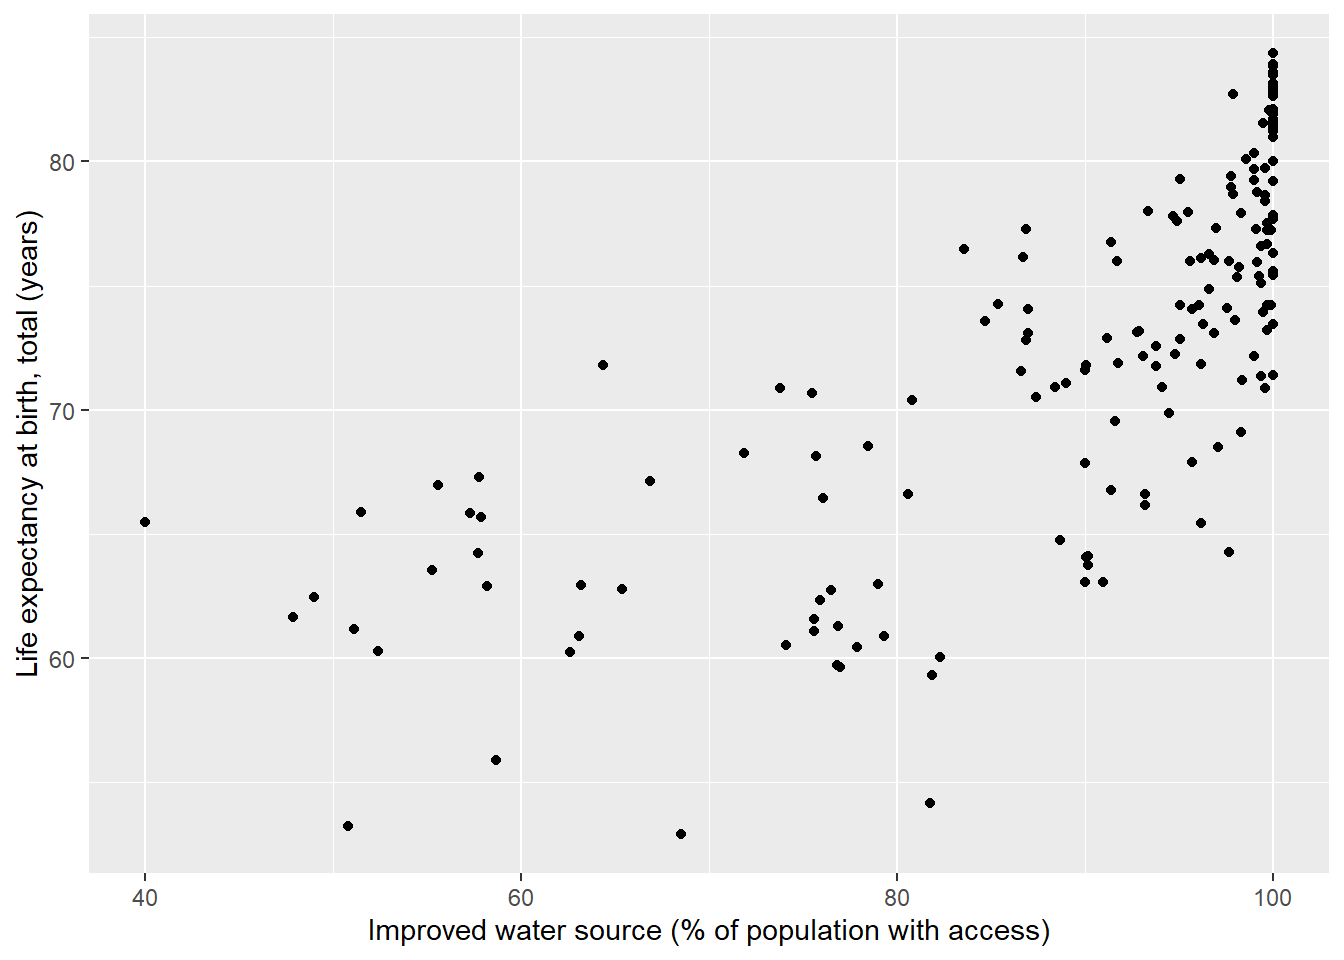
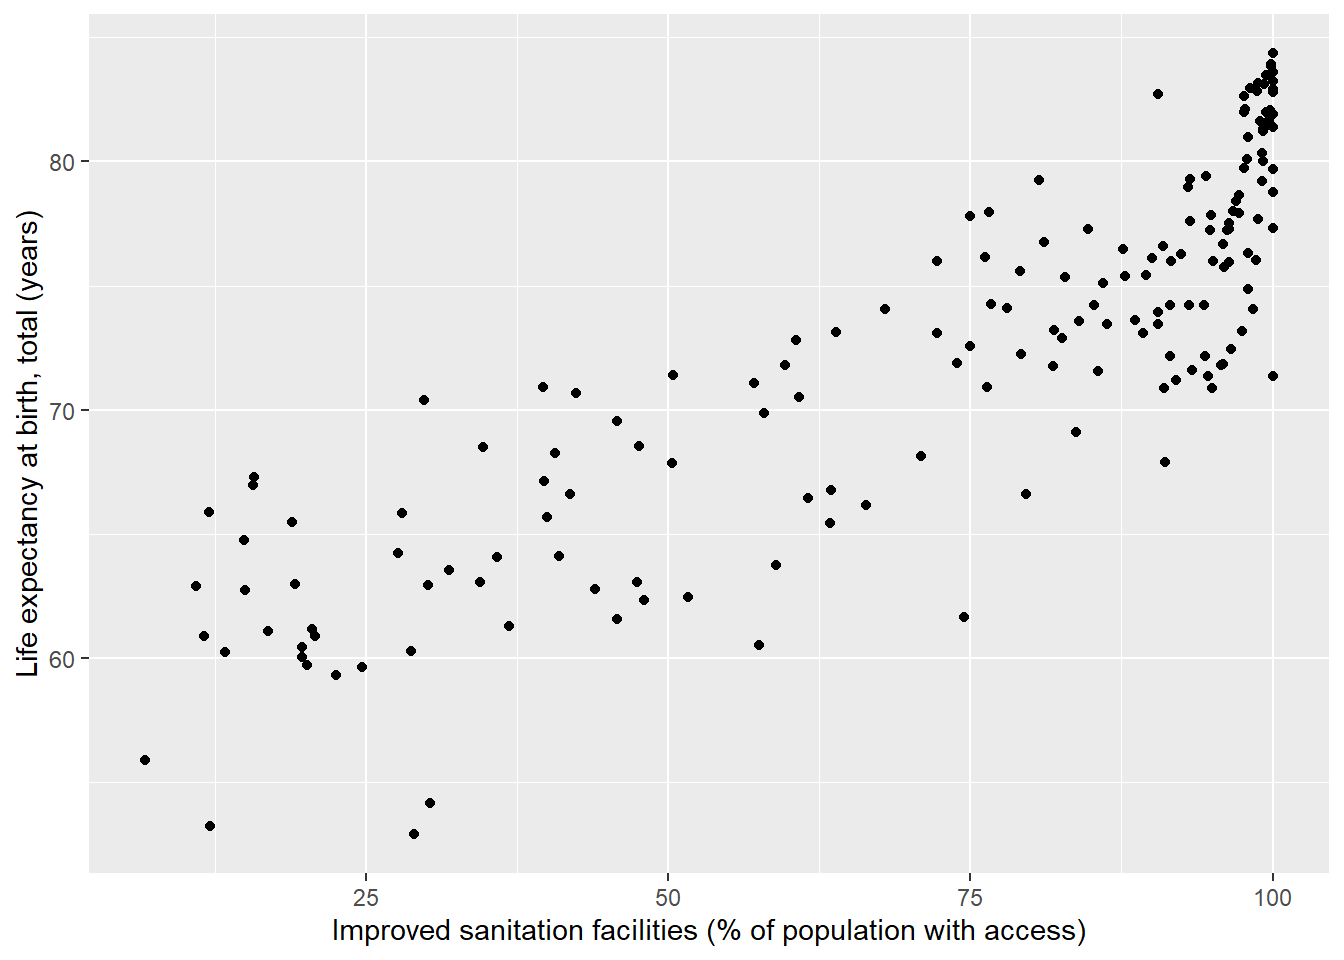
vid for t3, graph updates for t2,3,6

diff --git a/docs/t3.html b/docs/t3.html
@@ -488,20 +488,30 @@ z = \frac{x-\mu}{\sigma} = \frac{1700-1500}{100} = 2
 <img src="t3_files/figure-html/fig-wdscatter_ISA3-1.png" class="img-fluid figure-img" width="672">
 </div>
 <figcaption class="quarto-float-caption-bottom quarto-float-caption quarto-float-fig" id="fig-wdscatter_ISA3-caption-0ceaefa1-69ba-4598-a22c-09a6ac19f8ca">
-Figure&nbsp;3.2: Access to water vs.&nbsp;Life exp.
+Figure&nbsp;3.2: Access to sanitation vs.&nbsp;Life exp.
 </figcaption>
 </figure>
 </div>
 </div>
 </div>
-<p>We see a noisy, yet positive relationship between a country’s percentage access to an improved water source and its life expectancy at birth. The points do not cling tightly around the linear fit line, but are scattered around it.</p>
-<p>To give us some more formal information about the relationship strength, we can calculate pearson’s <span class="math inline">\(r\)</span> in SPSS which reveals that the correlation between the variables is 0.74. Following our rules-of-thumb above, we could diagnose this as a <strong>moderate, positive</strong> relationship between the two variables.</p>
+<p>We see a noisy, yet positive relationship between a country’s percentage access to improved sanitation and its life expectancy at birth. The points do not cling to the linear fit line, but are scattered around it.</p>
+<p>To give us some more formal information about the relationship strength, we can calculate pearson’s <span class="math inline">\(r\)</span> in SPSS which reveals that the correlation between the variables is 0.86. Following our rules-of-thumb above, we could diagnose this as a <strong>very strong, positive</strong> relationship between the two variables.</p>
 </section>
 <section id="spss-explainer-video" class="level2" data-number="3.5">
 <h2 data-number="3.5" class="anchored" data-anchor-id="spss-explainer-video"><span class="header-section-number">3.5</span> SPSS explainer video</h2>
-<p>[WDI scatterplot, pearson]</p>
+<ol type="1">
+<li>Scatterplots</li>
+<li>Pearson’s <span class="math inline">\(r\)</span></li>
+</ol>
+<p>See video <a href="https://amsuni-my.sharepoint.com/:v:/g/personal/d_fleming_uva_nl/IQA-vgBxpJsSS5WjMfqmMVHPAa6rnB7I0o-elSsp_xpe6-U?e=hZrjkZ">here</a><a href="#fn1" class="footnote-ref" id="fnref1" role="doc-noteref"><sup>1</sup></a> (UvA login required)</p>
 
 
+</section>
+<section id="footnotes" class="footnotes footnotes-end-of-document" role="doc-endnotes">
+<hr>
+<ol>
+<li id="fn1"><p><b>Note that I refer to a <i>strong</i> correlation in the video, when this should be <i>very strong</i>, following our rules of thumb</b><a href="#fnref1" class="footnote-back" role="doc-backlink">↩</a></p></li>
+</ol>
 </section>
 
 </main> <!-- /main -->

diff --git a/docs/t2.html b/docs/t2.html
@@ -319,7 +319,7 @@ S = \sqrt\frac{\sum_{i=1}^{n}{(x_i-\bar{x})^2}}{n-1}
 <li>Dividing the deviations by the number of observations (<span class="math inline">\(n\)</span>) minus 1</li>
 <li>Taking the square root of 5</li>
 </ol>
-<p>The standard deviation can be roughly interpreted as the average deviation from the sample mean in the data. Much like the mean, this measure of dispersion is mot appropriate for interval/ratio level data.</p>
+<p>The standard deviation can be roughly interpreted as the average deviation from the sample mean in the data. Much like the mean, this measure of dispersion is most appropriate for interval/ratio level data.</p>
 </section>
 <section id="the-range" class="level3" data-number="2.2.2">
 <h3 data-number="2.2.2" class="anchored" data-anchor-id="the-range"><span class="header-section-number">2.2.2</span> The range</h3>
@@ -366,7 +366,7 @@ Note&nbsp;2.1: IVs and DVs
 </div>
 </div>
 <p><br></p>
-<p>The variables <code>wdi_lifexp</code> (life expectancy at birth) and <code>wdi_water</code> (percentage of population with access to improved water) are appropriate for scatterplotting. If there is a causal relationship between these two variables, then the most intuitive direction of influence would be from <code>wdi_water</code> to <code>wdi_lifexp</code>, so <code>wdi_water</code> will be our IV (x-variable) and <code>wdi_lifexp</code> our DV (y-variable).</p>
+<p>The variables <code>wdi_lifexp</code> (life expectancy at birth) and <code>wdi_sanitation</code> (percentage of population with access to improved sanitation) are appropriate for scatterplotting. If there is a causal relationship between these two variables, then the most intuitive direction of influence would be from <code>wdi_sanitation</code> to <code>wdi_lifexp</code>, so <code>wdi_sanitation</code> will be our IV (x-variable) and <code>wdi_lifexp</code> our DV (y-variable).</p>
 <div class="cell">
 <div class="cell-output-display">
 <div id="fig-wdscatter_1" class="quarto-float quarto-figure quarto-figure-center anchored">
@@ -375,7 +375,7 @@ Note&nbsp;2.1: IVs and DVs
 <img src="t2_files/figure-html/fig-wdscatter_1-1.png" class="img-fluid figure-img" width="672">
 </div>
 <figcaption class="quarto-float-caption-bottom quarto-float-caption quarto-float-fig" id="fig-wdscatter_1-caption-0ceaefa1-69ba-4598-a22c-09a6ac19f8ca">
-Figure&nbsp;2.1: Access to water vs.&nbsp;Life exp.
+Figure&nbsp;2.1: Access to sanitation vs.&nbsp;Life exp.
 </figcaption>
 </figure>
 </div>

diff --git a/docs/t4.html b/docs/t4.html
@@ -202,6 +202,18 @@ window.Quarto = {
  <span class="menu-text"><span class="chapter-number">9</span>&nbsp; <span class="chapter-title">Factorial ANOVA (between subjects)</span></span></a>
   </div>
 </li>
+        <li class="sidebar-item">
+  <div class="sidebar-item-container"> 
+  <a href="./t10.html" class="sidebar-item-text sidebar-link">
+ <span class="menu-text"><span class="chapter-number">10</span>&nbsp; <span class="chapter-title">Simple (bivariate) regression</span></span></a>
+  </div>
+</li>
+        <li class="sidebar-item">
+  <div class="sidebar-item-container"> 
+  <a href="./t11.html" class="sidebar-item-text sidebar-link">
+ <span class="menu-text"><span class="chapter-number">11</span>&nbsp; <span class="chapter-title">Multiple regression</span></span></a>
+  </div>
+</li>
         <li class="sidebar-item sidebar-item-section">
       <div class="sidebar-item-container"> 
             <a class="sidebar-item-text sidebar-link text-start" data-bs-toggle="collapse" data-bs-target="#quarto-sidebar-section-1" role="navigation" aria-expanded="true">

diff --git a/docs/t6.html b/docs/t6.html
@@ -206,6 +206,18 @@ window.Quarto = {
  <span class="menu-text"><span class="chapter-number">9</span>&nbsp; <span class="chapter-title">Factorial ANOVA (between subjects)</span></span></a>
   </div>
 </li>
+        <li class="sidebar-item">
+  <div class="sidebar-item-container"> 
+  <a href="./t10.html" class="sidebar-item-text sidebar-link">
+ <span class="menu-text"><span class="chapter-number">10</span>&nbsp; <span class="chapter-title">Simple (bivariate) regression</span></span></a>
+  </div>
+</li>
+        <li class="sidebar-item">
+  <div class="sidebar-item-container"> 
+  <a href="./t11.html" class="sidebar-item-text sidebar-link">
+ <span class="menu-text"><span class="chapter-number">11</span>&nbsp; <span class="chapter-title">Multiple regression</span></span></a>
+  </div>
+</li>
         <li class="sidebar-item sidebar-item-section">
       <div class="sidebar-item-container"> 
             <a class="sidebar-item-text sidebar-link text-start" data-bs-toggle="collapse" data-bs-target="#quarto-sidebar-section-1" role="navigation" aria-expanded="true">

diff --git a/docs/t7.html b/docs/t7.html
@@ -202,6 +202,18 @@ window.Quarto = {
  <span class="menu-text"><span class="chapter-number">9</span>&nbsp; <span class="chapter-title">Factorial ANOVA (between subjects)</span></span></a>
   </div>
 </li>
+        <li class="sidebar-item">
+  <div class="sidebar-item-container"> 
+  <a href="./t10.html" class="sidebar-item-text sidebar-link">
+ <span class="menu-text"><span class="chapter-number">10</span>&nbsp; <span class="chapter-title">Simple (bivariate) regression</span></span></a>
+  </div>
+</li>
+        <li class="sidebar-item">
+  <div class="sidebar-item-container"> 
+  <a href="./t11.html" class="sidebar-item-text sidebar-link">
+ <span class="menu-text"><span class="chapter-number">11</span>&nbsp; <span class="chapter-title">Multiple regression</span></span></a>
+  </div>
+</li>
         <li class="sidebar-item sidebar-item-section">
       <div class="sidebar-item-container"> 
             <a class="sidebar-item-text sidebar-link text-start" data-bs-toggle="collapse" data-bs-target="#quarto-sidebar-section-1" role="navigation" aria-expanded="true">
